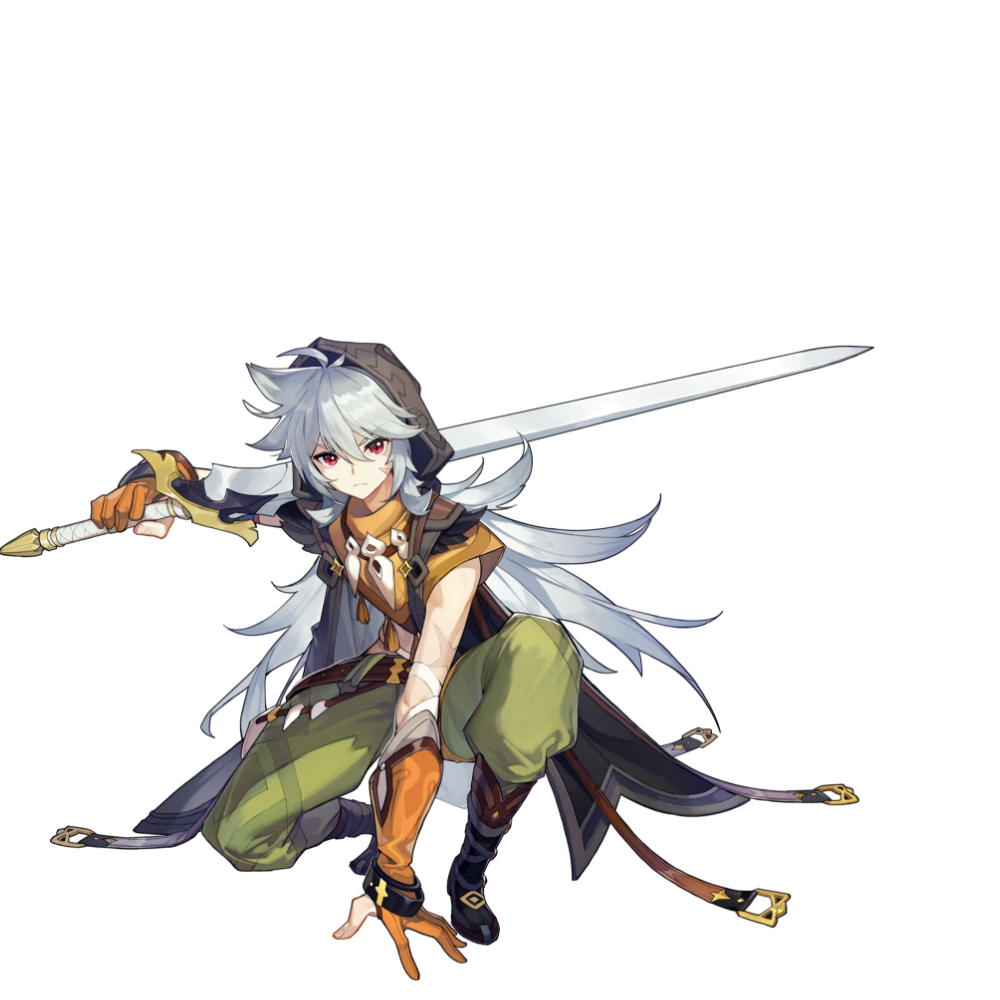
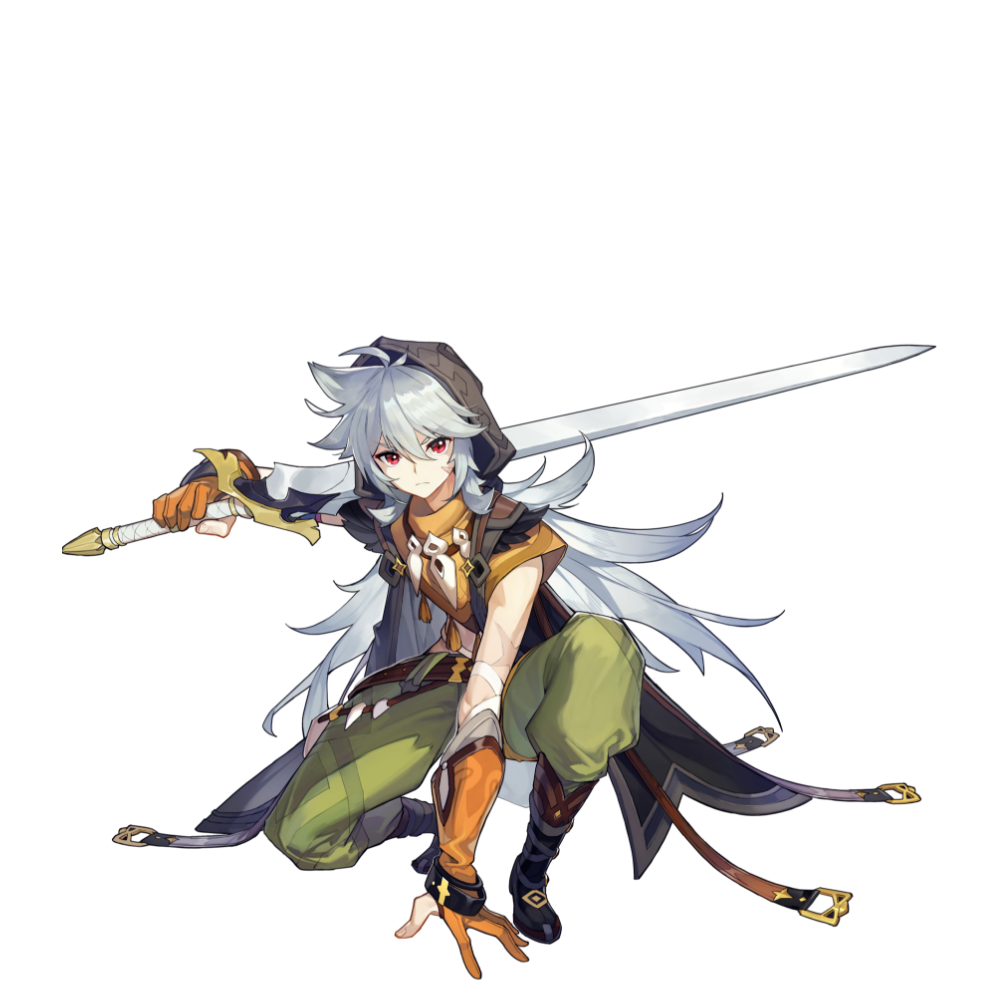
Tweaking of Visual component animation (#20)
* [Updated] Visual component animation should be centered now, depending on images width.

* [Removed] Unused asset (xiao.png)

Changed region(s): [[0.0, 0.31, 0.93, 0.992]]

diff --git a/src/components/Visual.scss b/src/components/Visual.scss
@@ -3,21 +3,17 @@
   pointer-events: none;
   width: 50%;
   height: 100%;
+
   img.right {
     position: absolute;
-    right: 0;
+    right: 50%;
     bottom: 0;
+    transform: translate3d(65%, 0, 0);
   }
   img.left {
     position: absolute;
-    left: 0;
+    left: 50%;
     bottom: 0;
-  }
-  img.xiao {
-    position: absolute;
-    left: -40%;
-    bottom: 0;
-    animation-duration: 1.5s;
-    animation-fill-mode: forwards;
+    transform: translate3d(-65%, 0, 0);
   }
 }

diff --git a/src/App.scss b/src/App.scss
@@ -161,7 +161,7 @@ p {
 
 @keyframes charAnimationRight {
   0% {
-    transform: translateX(30%);
+    transform: translate3d(100%, 0, 0);
     opacity: 0;
   }
   100% {
@@ -171,10 +171,11 @@ p {
 
 @keyframes charAnimationLeft {
   0% {
-    transform: translateX(-20%);
+    transform: translate3d(-100%, 0, 0);
     opacity: 0;
   }
   100% {
     opacity: 1;
   }
 }
+

diff --git a/src/App.jsx b/src/App.jsx
@@ -43,7 +43,7 @@ function App() {
             <Reactions />
           </Route>
           <Route path="/news">
-            <VisualAndPostsTemplate visual={tartaglia} visualPosition="left" posts={newsData.posts} />
+            <VisualAndPostsTemplate visual={tartaglia} posts={newsData.posts} />
           </Route>
         </Switch>
       </Router>
